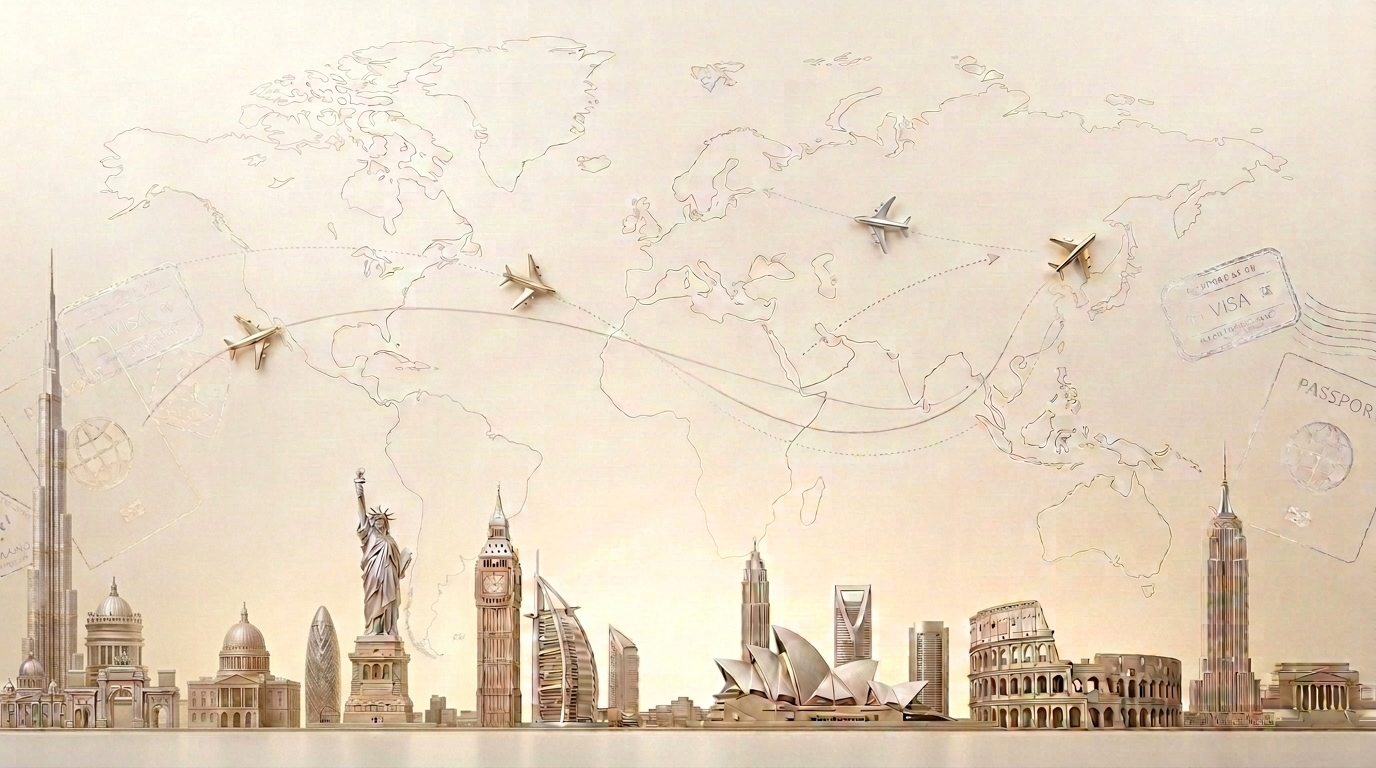
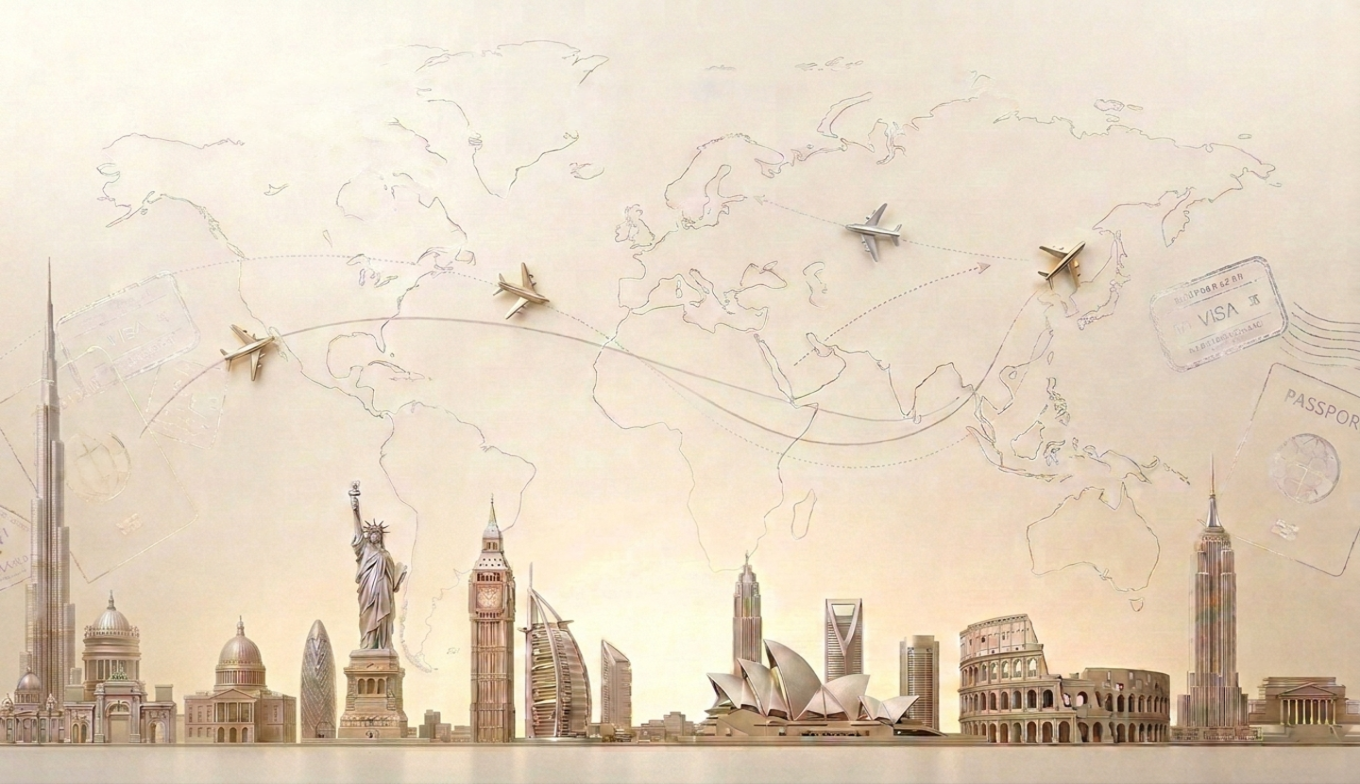
feat: enhance chatbot robustness and styling
- Implement fallback logic for Groq model API calls
- Support reasoning output in chatbot responses
- Apply mask to hero background for smoother transitions
- Update environment variable loading to override defaults

diff --git a/api/chat.ts b/api/chat.ts
@@ -108,20 +108,40 @@ Keep responses concise, clear, and under 150 words.`
   }
 
   try {
-    const groqModel = process.env.GROQ_MODEL || 'openai/gpt-oss-20b';
-    const response = await fetch('https://api.groq.com/openai/v1/chat/completions', {
-      method: 'POST',
-      headers: {
-        'Authorization': `Bearer ${groqKey}`,
-        'Content-Type': 'application/json'
-      },
-      body: JSON.stringify({
-        model: groqModel,
-        messages: fullMessages,
-        max_tokens: 300,
-        temperature: 0.7
-      })
-    });
+    let groqModel = (process.env.GROQ_MODEL || 'openai/gpt-oss-20b').trim();
+    if (groqModel.startsWith('chatgpt/')) {
+      groqModel = groqModel.replace(/^chatgpt\//, 'openai/');
+    }
+    if (groqModel === 'openai/oss-120b') {
+      groqModel = 'openai/gpt-oss-120b';
+    }
+    if (groqModel === 'openai/oss-20b') {
+      groqModel = 'openai/gpt-oss-20b';
+    }
+
+    const callGroq = async (model: string) => {
+      return fetch('https://api.groq.com/openai/v1/chat/completions', {
+        method: 'POST',
+        headers: {
+          'Authorization': `Bearer ${groqKey}`,
+          'Content-Type': 'application/json'
+        },
+        body: JSON.stringify({
+          model,
+          messages: fullMessages,
+          max_tokens: 300,
+          temperature: 0.7
+        })
+      });
+    };
+
+    let response = await callGroq(groqModel);
+
+    // If model not found (404) or bad request due to model (400), fall back to openai/gpt-oss-20b
+    if (!response.ok && (response.status === 404 || response.status === 400) && groqModel !== 'openai/gpt-oss-20b') {
+      console.warn(`Groq model '${groqModel}' returned ${response.status}, falling back to 'openai/gpt-oss-20b'`);
+      response = await callGroq('openai/gpt-oss-20b');
+    }
 
     if (!response.ok) {
       const errorText = await response.text();

diff --git a/src/pages/Home.tsx b/src/pages/Home.tsx
@@ -478,14 +478,21 @@ Please let me know the document checklist and how we can proceed with this appli
 
       <section className="relative pt-20 pb-32 overflow-hidden flex items-center justify-center min-h-[90vh]">
         {/* Hero background: world-map & landmark artwork, softened so the headline stays readable */}
-        <div className="absolute inset-0 z-0 pointer-events-none">
+        <div
+          className="absolute inset-0 z-0 pointer-events-none"
+          style={{
+            // Feather the image into the page at the top and bottom so there is no hard edge
+            WebkitMaskImage: 'linear-gradient(to bottom, transparent 0%, #000 22%, #000 72%, transparent 100%)',
+            maskImage: 'linear-gradient(to bottom, transparent 0%, #000 22%, #000 72%, transparent 100%)',
+          }}
+        >
           <img
             src="/hero-background.png"
             alt=""
             aria-hidden="true"
             className="w-full h-full object-cover object-center"
           />
-          <div className="absolute inset-0 bg-gradient-to-b from-[#FAF8F4]/55 via-[#FAF8F4]/25 to-[#FAF8F4]" />
+          <div className="absolute inset-0 bg-gradient-to-b from-[#FAF8F4]/45 via-[#FAF8F4]/25 to-[#FAF8F4]/60" />
         </div>
         <div className="max-w-7xl mx-auto px-4 sm:px-6 relative z-10 text-center">
           <motion.div

diff --git a/src/components/Chatbot.tsx b/src/components/Chatbot.tsx
@@ -70,7 +70,9 @@ ${plansInfo || 'None currently.'}
     }
 
     const data = await response.json();
-    return data.choices?.[0]?.message?.content || "Thank you for reaching out. How else can I assist your visa journey?";
+    const choice = data.choices?.[0]?.message;
+    const content = (choice?.content || choice?.reasoning || '').trim();
+    return content || "Thank you for reaching out. How else can I assist your visa journey?";
   };
 
   const handleSend = async (e: React.FormEvent) => {

diff --git a/server.ts b/server.ts
@@ -2,7 +2,7 @@ import express from 'express';
 import path from 'path';
 import { createServer as createViteServer } from 'vite';
 import dotenv from 'dotenv';
-dotenv.config();
+dotenv.config({ override: true });
 
 // Import single-source handlers from /api
 import chatHandler from './api/chat';
